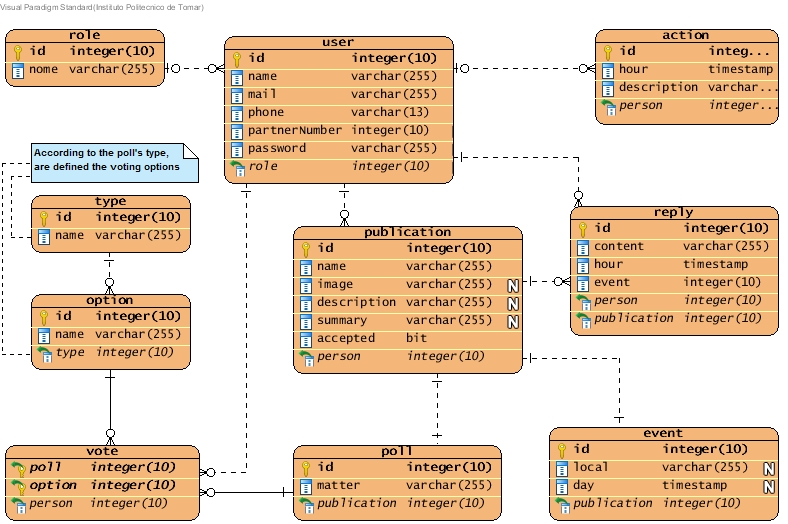
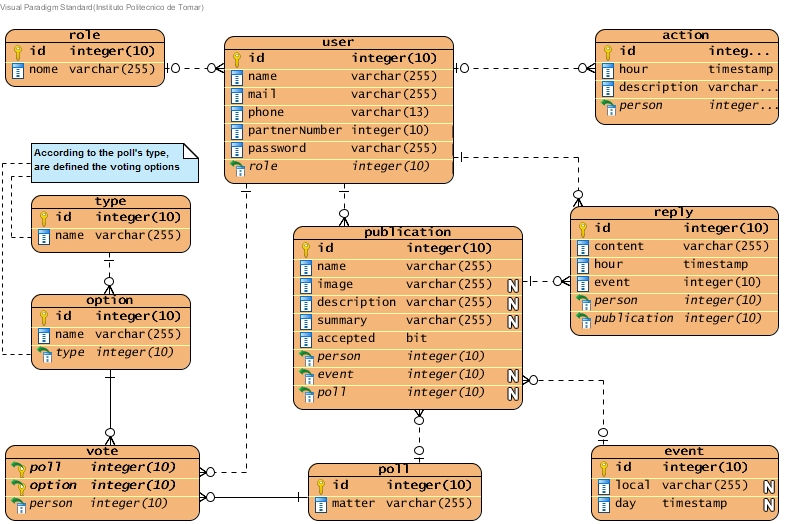
Database Creation

diff --git a/Project/Project/Models/Publication.cs b/Project/Project/Models/Publication.cs
@@ -16,7 +16,7 @@ namespace Project.Models
         }
 
         [Key]
-        public String ID { get; set; }
+        public int ID { get; set; }
 
         public String Name { get; set; }
 
@@ -34,7 +34,15 @@ namespace Project.Models
 
         public ApplicationUser User { get; set; } // associates in C# the USER with the PUBLICATION
         [ForeignKey("User")]
-        public int UserFK { get; set; } // associates in SQL the USER with the PUBLICATION
+        public String UserFK { get; set; } // associates in SQL the USER with the PUBLICATION
+
+        public Poll Poll { get; set; } // associates in C# the PUBLICATION with the POLL
+        [ForeignKey("Poll")]
+        public int PollFK { get; set; } // associates in SQL the PUBLICATION with the POLL
+
+        public Event Event { get; set; } // associates in C# the PUBLICATION with the EVENT
+        [ForeignKey("Event")]
+        public int EventFK { get; set; } // associates in SQL the PUBLICATION with the EVENT
 
         //*********************   END Foreign Keys definition    **********************************
         //*****************************************************************************************
@@ -44,16 +52,5 @@ namespace Project.Models
         //* A EVENT may have multiple REPLY   
         public ICollection<Reply> Replies { get; set; }
         //***************************************************************************
-
-        //***************************************************************************
-        //* Refers to the relationship between PUBLICATION and the EVENT
-        //* A PUBLICATION may have only a EVENT 
-        public virtual Event Event { get; set; }
-        //* Refers to the relationship between PUBLICATION and the POLL
-        //* A EVENT may have only a POLL
-        public virtual Poll Poll { get; set; }
-        //**************************************************************************
-
-
     }
 }

diff --git a/Project/Project/Models/Poll.cs b/Project/Project/Models/Poll.cs
@@ -13,28 +13,21 @@ namespace Project.Models
         public Poll()
         {
             Votes = new HashSet<Vote>();
+            Publications = new HashSet<Publication>();
         }
 
         [Key]
-        public String ID { get; set; }
+        public int ID { get; set; }
 
         public String Matter { get; set; }
-
-        //*********************************************************************************************
-        //*********************    Foreign Keys definition      ***************************************
-        //*********************************************************************************************
-
-        public Publication Publication { get; set; } // associates in C# the POLL with the PUBLICATION
-        [ForeignKey("Publication")]
-        public int PublicationFK { get; set; } // associates in SQL the POLL with the PUBLICATION
-
-        //*********************   END Foreign Keys definition    *************************************
-        //********************************************************************************************
 
         //***************************************************************************
         //* Refers to the relationship between POOL and the VOTE
         //* A POLL may have multiple VOTE   
         public ICollection<Vote> Votes { get; set; }
+        //* Refers to the relationship between POOL and the PUBLICATION
+        //* A POLL may have multiple PUBLICATION   
+        public ICollection<Publication> Publications { get; set; }
         //***************************************************************************
     }
 }

diff --git a/Project/Project/Models/Event.cs b/Project/Project/Models/Event.cs
@@ -9,24 +9,24 @@ namespace Project.Models
 {
     public class Event
     {
+        public Event()
+        {
+            Publications = new HashSet<Publication>();
+        }
+
         [Key]
-        public string ID { get; set; }
+        public int ID { get; set; }
 
         public DateTime Day { get; set; }
 
-        public string Local { get; set; }
+        public String Local { get; set; }
 
         public Boolean Accepted { get; set; }
 
-        //*********************************************************************************************
-        //*********************    Foreign Keys definition      ***************************************
-        //*********************************************************************************************
-
-        public Publication Publication { get; set; } // associates in C# the EVENT with the PUBLICATION
-        [ForeignKey("Publication")]
-        public int PublicationFK { get; set; } // associates in SQL the EVENT with the PUBLICATION
-
-        //*********************   END Foreign Keys definition    *************************************
-        //********************************************************************************************
+        //***************************************************************************
+        //* Refers to the relationship between EVENT and the PUBLICATION
+        //* A EVENT may have multiple PUBLICATION   
+        public ICollection<Publication> Publications { get; set; }
+        //***************************************************************************
     }
 }

diff --git a/Project/Project/Models/Vote.cs b/Project/Project/Models/Vote.cs
@@ -13,21 +13,20 @@ namespace Project.Models
         //*********************    Foreign Keys definition      ***************************************
         //*********************************************************************************************
 
-        public Option Option { get; set; } // associates in C# the VOTE with the OPTION
-        [Key]
-        [ForeignKey("Option")]
+        public virtual Option Option { get; set; } // associates in C# the VOTE with the OPTION
+        [Column(Order = 0), Key, ForeignKey("Option")]
         public int OptionFK { get; set; } // associates in SQL the VOTE with the OPTION
 
         public Poll Poll { get; set; } // associates in C# the VOTE with the POLL
-        [Key]
-        [ForeignKey("Poll")]
+        [Column(Order = 1), Key, ForeignKey("Poll")]
         public int PollFK { get; set; } // associates in SQL the VOTE with the POLL
 
         public ApplicationUser User { get; set; } // associates in C# the USER with the VOTE
         [ForeignKey("User")]
-        public int UserFK { get; set; } // associates in SQL the VOTE with the USER
+        public String UserFK { get; set; } // associates in SQL the VOTE with the USER
 
         //*********************   END Foreign Keys definition    *************************************
         //********************************************************************************************
+        
     }
 }

diff --git a/Project/Project/Models/IdentityModels.cs b/Project/Project/Models/IdentityModels.cs
@@ -59,12 +59,12 @@ namespace Project.Models
          *  DbSet<Vote> Vote                -> representa uma tabela da base de dados (neste caso chamada 'Vote') com a classe Vote
          **************************************************************************************************************************/
         public virtual DbSet<Action> Action { get; set; }
-        public virtual DbSet<Event> Event { get; set; }
-        public virtual DbSet<Option> Option { get; set; }
-        public virtual DbSet<Poll> Poll { get; set; }
         public virtual DbSet<Publication> Publication { get; set; }
+        public virtual DbSet<Event> Event { get; set; }
+        public virtual DbSet<Poll> Poll { get; set; }
         public virtual DbSet<Reply> Reply { get; set; }
         public virtual DbSet<Type> Type { get; set; }
+        public virtual DbSet<Option> Option { get; set; }
         public virtual DbSet<Vote> Vote { get; set; }
         //************************************************************************************************************************
 

diff --git a/Project/Project/Models/Reply.cs b/Project/Project/Models/Reply.cs
@@ -10,11 +10,11 @@ namespace Project.Models
     public class Reply
     {
         [Key]
-        public string ID { get; set; }
+        public int ID { get; set; }
 
         public DateTime Hour { get; set; }
 
-        public string Content { get; set; }
+        public String Content { get; set; }
 
         //*********************************************************************************************
         //*********************    Foreign Keys definition      ***************************************
@@ -26,7 +26,7 @@ namespace Project.Models
 
         public ApplicationUser User { get; set; } // associates in C# the USER with the REPLY
         [ForeignKey("User")]
-        public int UserFK { get; set; } // associates in SQL the USER with the REPLY
+        public String UserFK { get; set; } // associates in SQL the USER with the REPLY
 
         //*********************   END Foreign Keys definition    *************************************
         //********************************************************************************************

diff --git a/Project/Project/Migrations/Configuration.cs b/Project/Project/Migrations/Configuration.cs
@@ -1,0 +1,31 @@
+namespace Project.Migrations
+{
+    using System;
+    using System.Data.Entity;
+    using System.Data.Entity.Migrations;
+    using System.Linq;
+
+    internal sealed class Configuration : DbMigrationsConfiguration<Project.Models.ApplicationDbContext>
+    {
+        public Configuration()
+        {
+            AutomaticMigrationsEnabled = true;
+        }
+
+        protected override void Seed(Project.Models.ApplicationDbContext context)
+        {
+            //  This method will be called after migrating to the latest version.
+
+            //  You can use the DbSet<T>.AddOrUpdate() helper extension method 
+            //  to avoid creating duplicate seed data. E.g.
+            //
+            //    context.People.AddOrUpdate(
+            //      p => p.FullName,
+            //      new Person { FullName = "Andrew Peters" },
+            //      new Person { FullName = "Brice Lambson" },
+            //      new Person { FullName = "Rowan Miller" }
+            //    );
+            //
+        }
+    }
+}

diff --git a/Project/Project/Models/Action.cs b/Project/Project/Models/Action.cs
@@ -10,7 +10,7 @@ namespace Project.Models
     public class Action
     {
         [Key]
-        public String ID { get; set; }
+        public int ID { get; set; }
 
         public String Description { get; set; }
 
@@ -22,7 +22,7 @@ namespace Project.Models
 
         public ApplicationUser User { get; set; } // associates in C# the USER with the ACTION
         [ForeignKey("User")]
-        public int UserFK { get; set; } // associates in SQL the USER with the ACTION
+        public String UserFK { get; set; } // associates in SQL the USER with the ACTION
 
         //*********************   END Foreign Keys definition    **********************************
         //*****************************************************************************************

diff --git a/Project/Project/Models/Option.cs b/Project/Project/Models/Option.cs
@@ -16,7 +16,7 @@ namespace Project.Models
         }
 
         [Key]
-        public String ID { get; set; }
+        public int ID { get; set; }
 
         public String Name { get; set; }
 

diff --git a/Project/Project/Models/Type.cs b/Project/Project/Models/Type.cs
@@ -15,7 +15,7 @@ namespace Project.Models
         }
 
         [Key]
-        public String ID { get; set; }
+        public int ID { get; set; }
 
         public String Name { get; set; }
 
